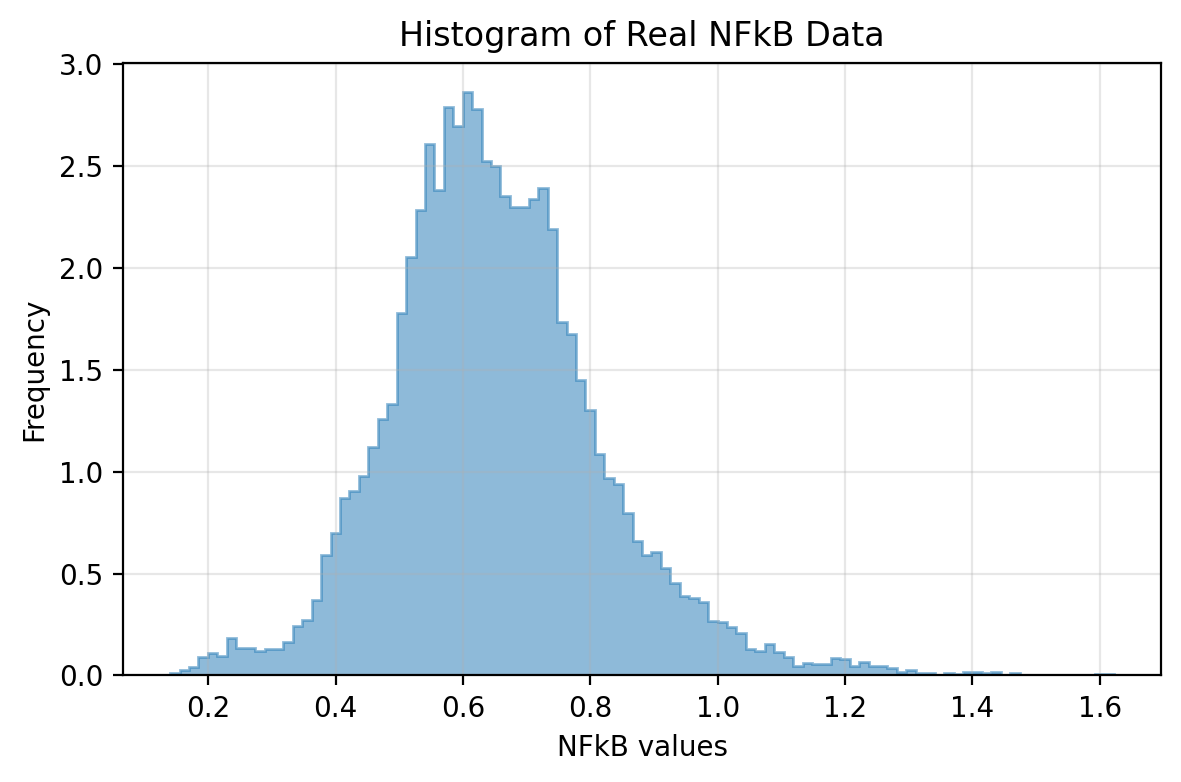
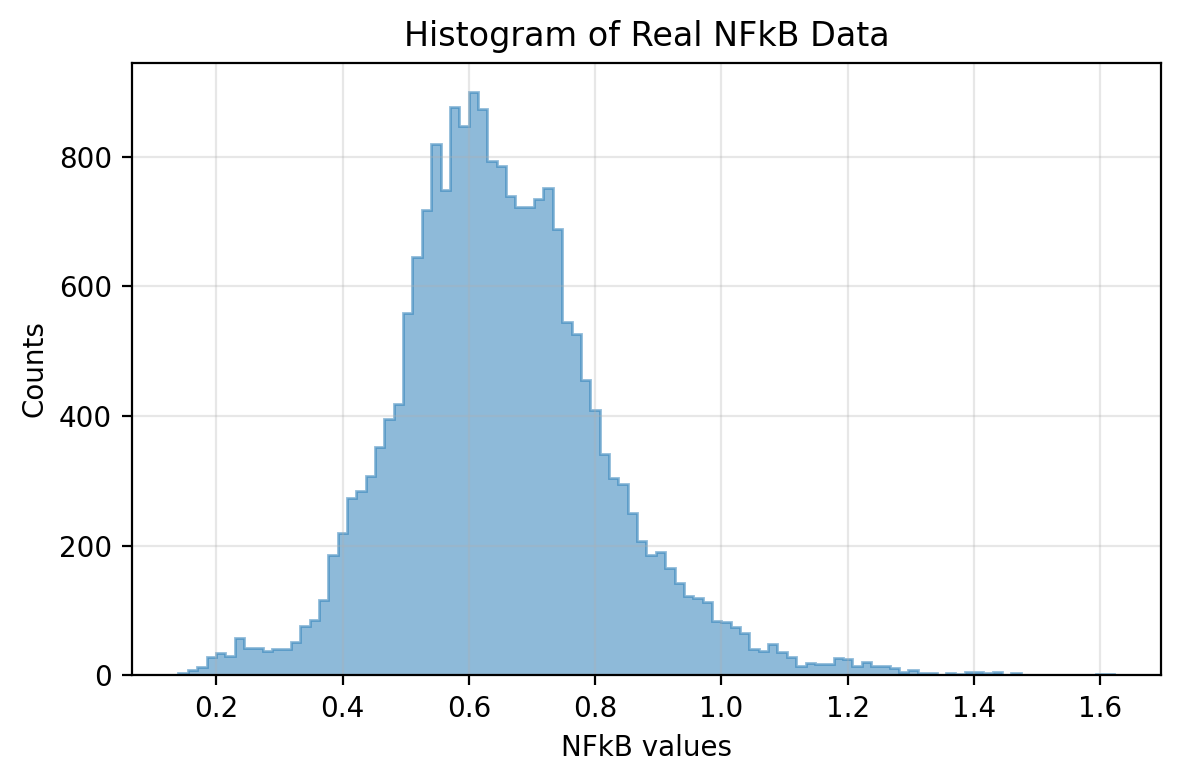
minor bug fixes.

diff --git a/code/utils/extra_plots.py b/code/utils/extra_plots.py
@@ -17,8 +17,8 @@ print("Real NFkB data shape:", real_nfkb_data.shape)
 fig, ax = plt.subplots(figsize=(6, 4), dpi=200)
 ax.hist(real_nfkb_data.flatten(), bins=100, edgecolor='C0',
         facecolor=to_rgba('C0', alpha=0.5),
-        histtype='stepfilled', alpha=0.5, label='Real NFkB Data', density=True)
-ax.set(title='Histogram of Real NFkB Data', xlabel='NFkB values', ylabel='Frequency')
+        histtype='stepfilled', alpha=0.5, label='Real NFkB Data', density=False)
+ax.set(title='Histogram of Real NFkB Data', xlabel='NFkB values', ylabel='Counts')
 ax.grid(True, alpha=0.3)
 fig.tight_layout()
 plt.show()

diff --git a/code/train_ode_real_data.py b/code/train_ode_real_data.py
@@ -229,9 +229,9 @@ trained_vars, epoch_losses = train_ude(
     atol,
     stiff,
     model_name,
-    offset_factor,
-    scaling_factor,
-    train_key,
+    offset_factor=offset_factor,
+    scaling_factor=scaling_factor,
+    key=train_key,
     nn_factory=ConstantNN,  # Injecting our Constant NN
 )
 plot_training_loss(
